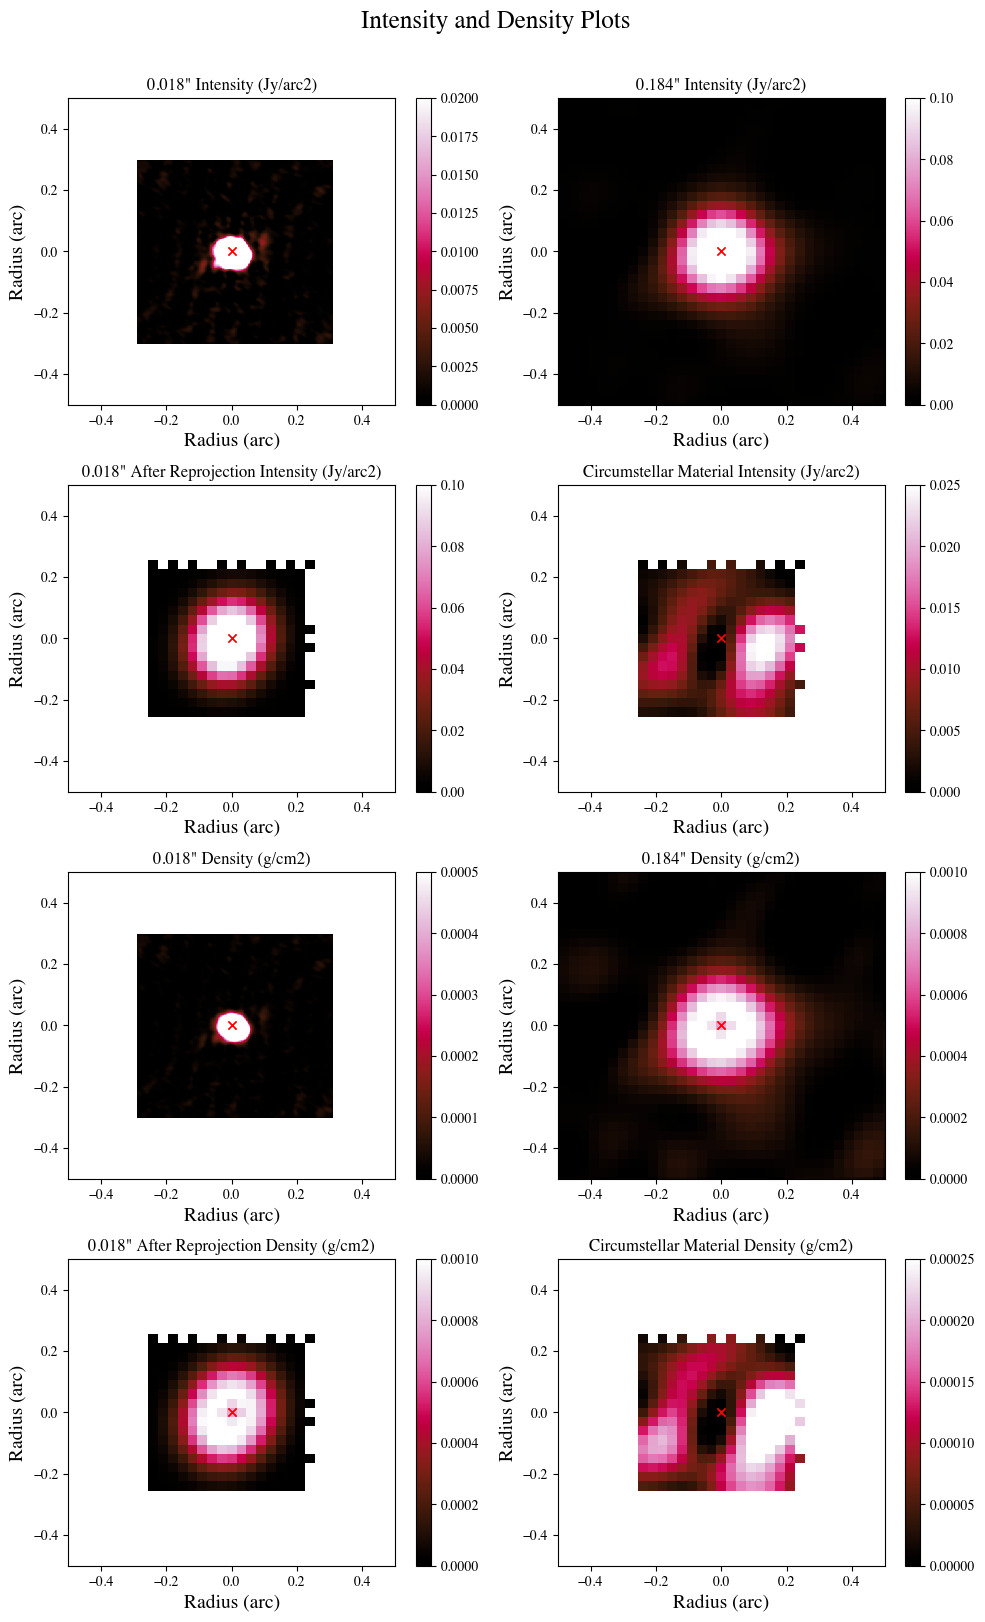
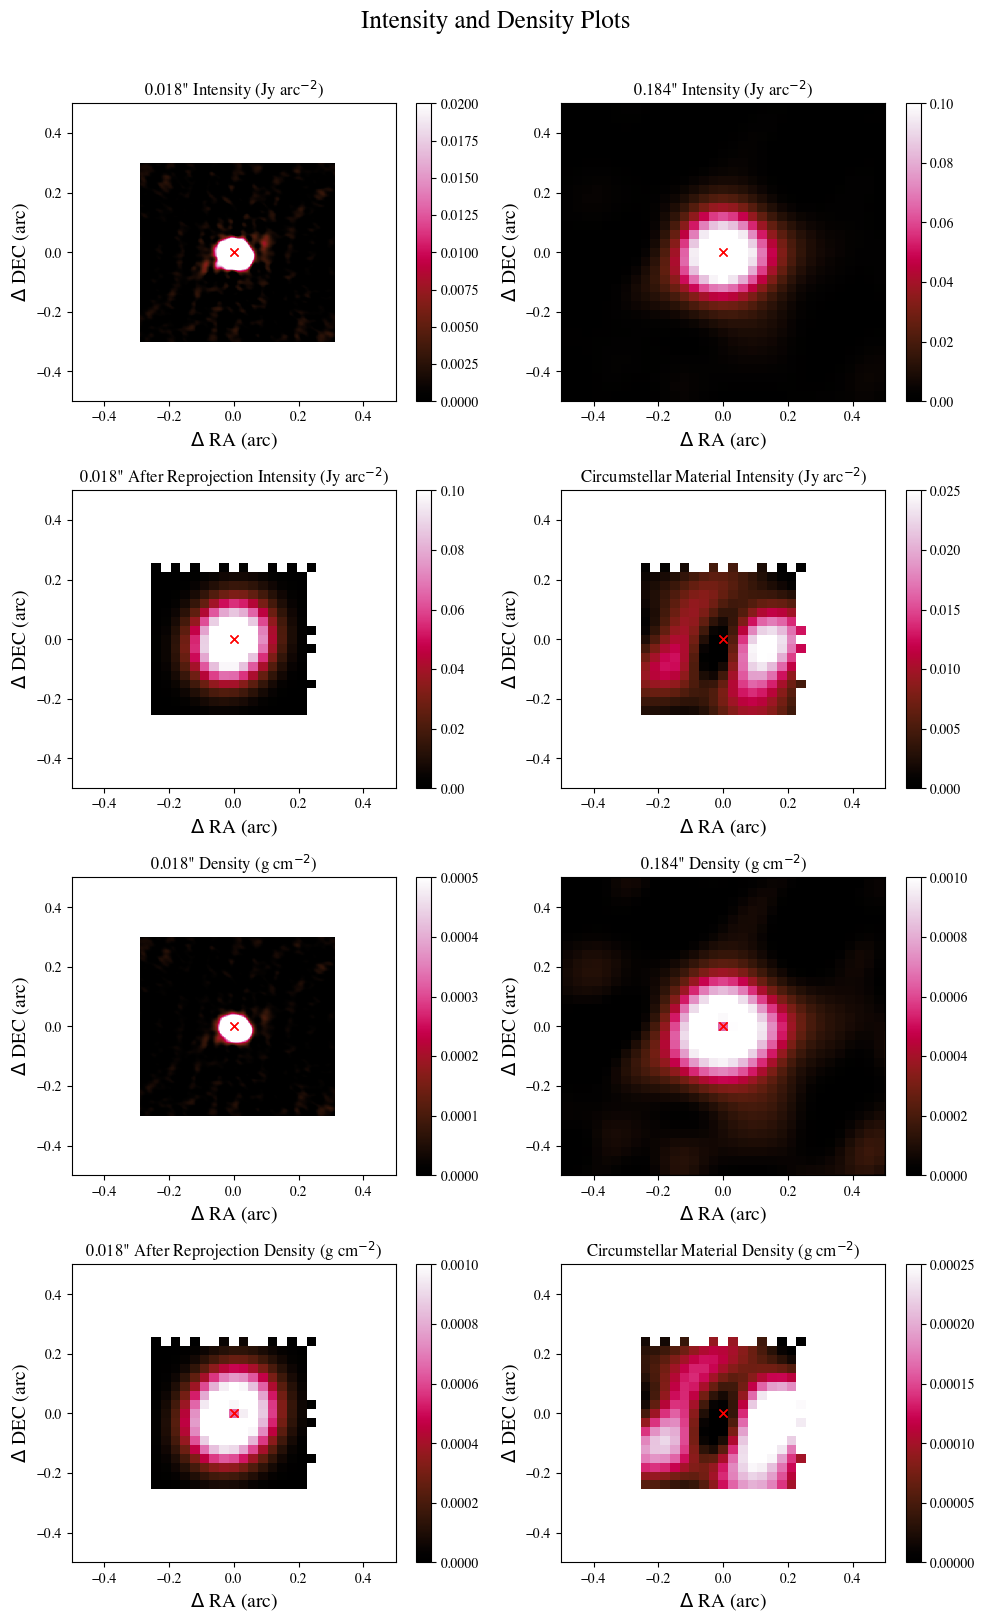
plot updates

diff --git a/everything.py b/everything.py
@@ -174,8 +174,7 @@ def plot_1d_err(info,radius,ax1_ymin=1e-2,ax2_ymin=1e-3, ax1_ymax=1e4,ax2_ymax=1
     plot 1d density and intensity functions.
     can select plot x and y limits. default values inputted otherwise
     '''
-    lowcolor = 'steelblue'
-    highcolor='crimson'
+
 
 
     plt.rcParams["font.family"] = "times"
@@ -216,8 +215,8 @@ def plot_1d_err(info,radius,ax1_ymin=1e-2,ax2_ymin=1e-3, ax1_ymax=1e4,ax2_ymax=1
     ax2.set_title("1-D Radial Density Comaprison")
     ax1.set_xlabel('Radius (arc)')
     ax2.set_xlabel('Radius (arc)')
-    ax1.set_ylabel('Intensity Error (Jy/arc2)')
-    ax2.set_ylabel('Density Error (g/cm2)')
+    ax1.set_ylabel(r'Intensity Error (Jy arc$^{-2}$)')
+    ax2.set_ylabel(r'Density Error (g cm$^{-2}$')
 
     fig.show()
 
@@ -274,12 +273,13 @@ def plot_1d(data_1d,data_dens_1d,info,radius,ax1_ymin=1e-2,ax2_ymin=1e-3, ax1_ym
     ax1.tick_params(direction = 'in')
     ax2.tick_params(direction = 'in')
 
+
     ax1.set_title("Radial Intensity",size=18)
     ax2.set_title("Radial Density",size=18)
     ax1.set_xlabel('Radius (arc)',size=15)
     ax2.set_xlabel('Radius (arc)',size=15)
-    ax1.set_ylabel('Intensity (Jy/arc2)',size=15)
-    ax2.set_ylabel('Density (g/cm2)',size=15)
+    ax1.set_ylabel(r'Intensity (Jy arc$^{-2}$)',size=15)
+    ax2.set_ylabel(r'Density (g cm$^{-2}$)',size=15)
 
     fig.show()
 
@@ -343,7 +343,7 @@ def plot_1d_skip(data_1d,data_dens_1d,info,radius,ax1_ymin=1e-2,ax2_ymin=1e-3, a
     ax2.set_title("1-D Radial Density Comaprison")
     ax1.set_xlabel('Radius (arc)')
     ax2.set_xlabel('Radius (arc)')
-    ax1.set_ylabel('Intensity (Jy/arc2)')
-    ax2.set_ylabel('Density (g/cm2)')
+    ax1.set_ylabel(r'Intensity (Jy arc$^{-2}$)',size=15)
+    ax2.set_ylabel(r'Density (g cm$^{-2}$)',size=15)
 
     fig.show()

diff --git a/abel.py b/abel.py
@@ -90,6 +90,6 @@ def plot_1d_abel(data_abel_1d,info,radius,ax_ymin=1e-2, ax_ymax=1e4,xmin=0,xmax=
     ax.semilogy()
 #     ax.set_title("1-D Density (g/cm3)")
     ax.set_xlabel('Radius (arc)')
-    ax.set_ylabel(r'Density (g cm$^{-3})')
+    ax.set_ylabel(r'Density (g cm$^{-3}$)')
 
     fig.show()
